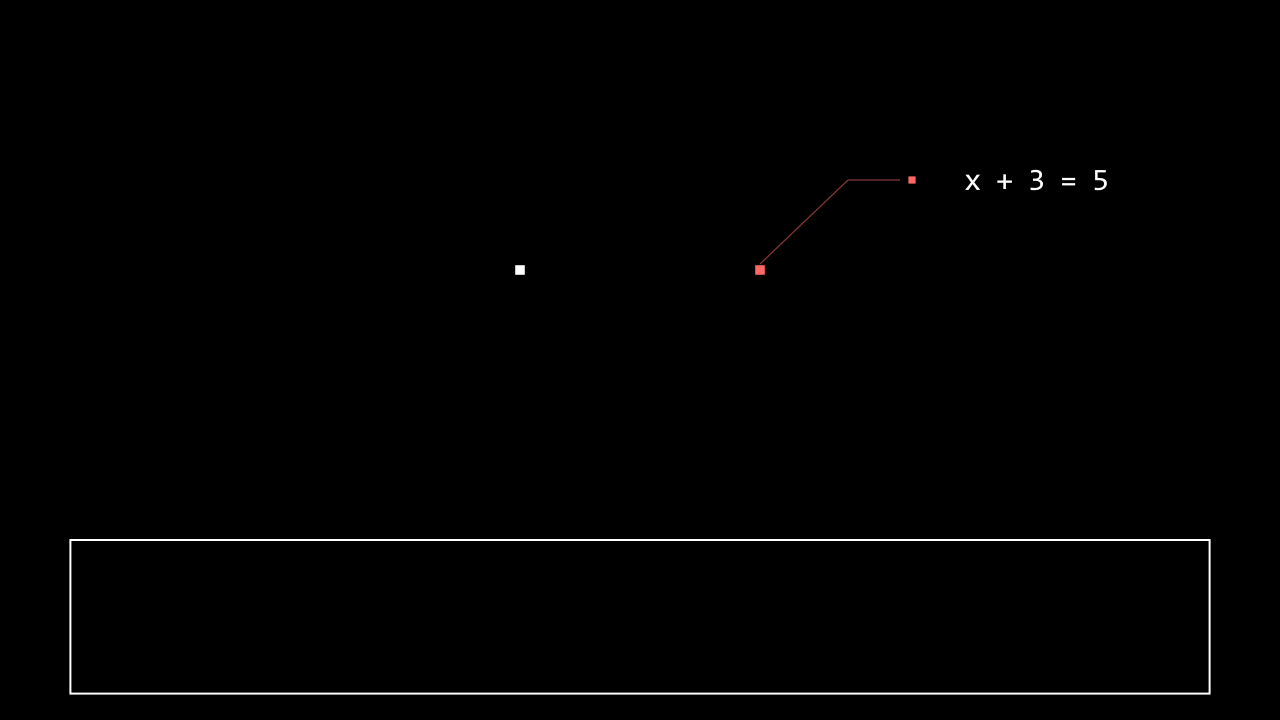
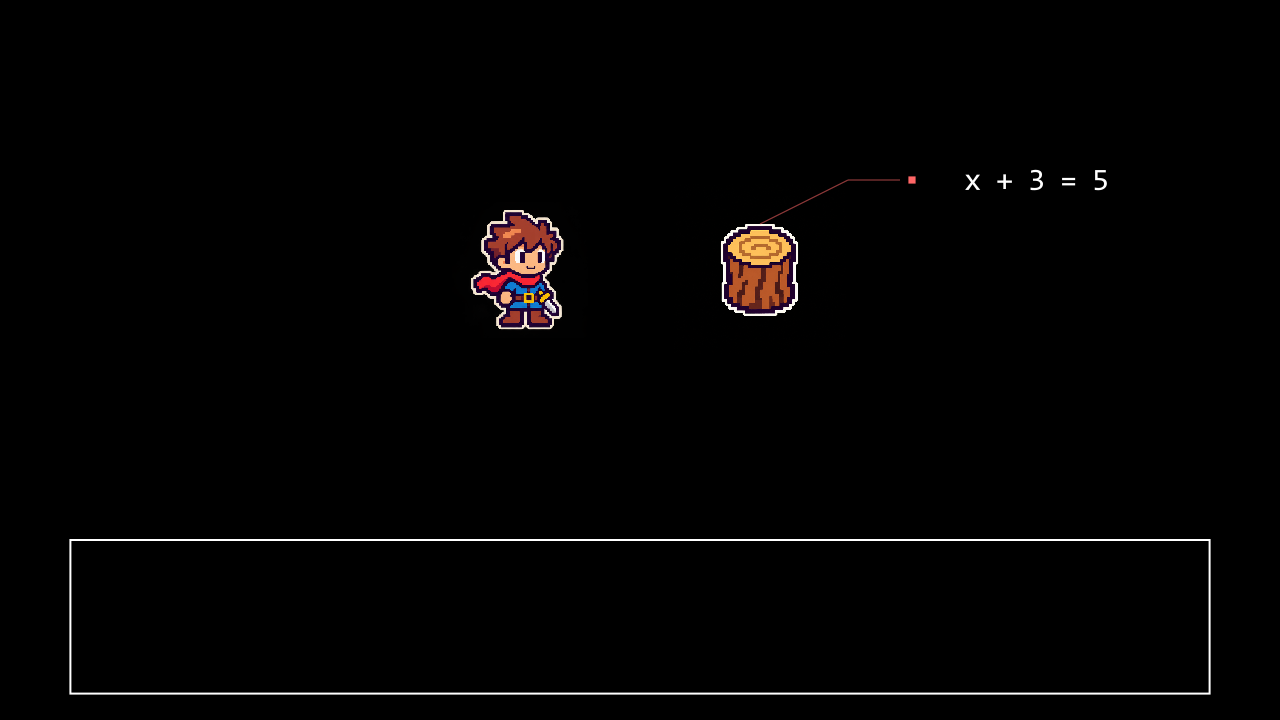
과정 적용 완료

Changed region(s): [[0.3438, 0.275, 0.4375, 0.4583], [0.5625, 0.3056, 0.625, 0.4583]]

diff --git a/visual_library/previews/training/index.html b/visual_library/previews/training/index.html
@@ -7,11 +7,11 @@
 @media(prefers-reduced-motion:reduce){#copy,#answer{transition:none}}
 </style>
 <main><button class="screen" id="stage" aria-label="다음 단계로 이동">
-<img src="initial/screen.png?v=4" alt="검은 배경, 왼쪽 주인공 점과 오른쪽 적 점, 빈 하단 대화창">
+<img src="initial/screen.png?v=5" alt="검은 배경, 왼쪽 정지 주인공 캐릭터와 오른쪽 도트 통나무, 빈 하단 대화창">
 <svg viewBox="0 0 1280 720" aria-hidden="true">
-<path d="M760 264 L848 180 H900" fill="none" stroke="#FF6666" stroke-width="1.5" opacity=".55"/>
+<path d="M760 224 L848 180 H900" fill="none" stroke="#FF6666" stroke-width="1.5" opacity=".55"/>
 <g id="original"><rect x="908" y="176.5" width="7" height="7" fill="#FF6666"/><text x="937" y="190">x + 3 = 5</text></g>
-<path id="playerLink" class="hidden" d="M520 264 L448 228 H420" fill="none" stroke="#FFFFFF" stroke-width="1.5" opacity=".35"/>
+<path id="playerLink" class="hidden" d="M485 224 L448 228 H420" fill="none" stroke="#FFFFFF" stroke-width="1.5" opacity=".35"/>
 <g id="copy" class="hidden" style="transform:translate(1035px,190px)">
 <g id="work"><text x="-22" y="0" text-anchor="end">x + 3</text><text x="0" y="0" text-anchor="middle">=</text><text x="22" y="0">5</text></g>
 <g id="operation" class="hidden" fill="#B6DDE5"><text x="-22" y="35" text-anchor="end" style="fill:#B6DDE5">x + 3 − 3</text><text x="0" y="35" text-anchor="middle" style="fill:#B6DDE5">=</text><text x="22" y="35" style="fill:#B6DDE5">5 − 3</text></g>

diff --git a/visual_library/previews/training/character_demo/index.html b/visual_library/previews/training/character_demo/index.html
@@ -1,0 +1,1 @@
+<!doctype html><html lang="ko"><meta charset="utf-8"><meta name="viewport" content="width=device-width,initial-scale=1"><title>주인공 동작 예시</title><style>body{margin:0;background:#111;color:#ccc;min-height:100vh;display:grid;place-content:center;font:14px sans-serif}main{width:min(100vw,1000px)}img{width:100%;display:block;image-rendering:pixelated}p{padding:0 12px}</style><main><img src="hero_animation_shortlegs.gif" alt="주인공이 걷고 칼을 휘두른 뒤 웃는 도트 애니메이션"><p>대기 → 이동 → 칼 휘두르기 → 웃는 표정 · 반복 재생</p></main></html>

diff --git a/visual_library/previews/training/initial_screen.py b/visual_library/previews/training/initial_screen.py
@@ -3,7 +3,7 @@ from pathlib import Path
 import sys
 ROOT=Path(__file__).resolve().parents[3]
 sys.path.insert(0,str(ROOT))
-from manim import Scene, Rectangle, Line, Text, VGroup, tempconfig
+from manim import Scene, Rectangle, Line, Text, VGroup, ImageMobject, RESAMPLING_ALGORITHMS, tempconfig
 from visual_library.manim import DialogueBackground
 
 class InitialScreen(Scene):
@@ -14,15 +14,19 @@ class InitialScreen(Scene):
         background.dialogue.stretch_to_fit_width(14.24)
         background.dialogue.stretch_to_fit_height(1.92)
         background.dialogue.move_to([0,-3.21,0])
-        # A single small square dot is the only character placeholder.
-        player=Rectangle(width=.12,height=.12,stroke_width=0,
-                         fill_color='#FFFFFF',fill_opacity=1).move_to([-1.5,1.125,0])
-        enemy=Rectangle(width=.12,height=.12,stroke_width=0,
-                        fill_color='#FF6666',fill_opacity=1).move_to([1.5,1.125,0])
+        assets=Path(__file__).parent/'assets'
+        player=ImageMobject(str(assets/'hero_idle.png'))
+        player.set_resampling_algorithm(RESAMPLING_ALGORITHMS['nearest'])
+        player.height=1.70
+        player.move_to([-1.5,1.125,0])
+        enemy=ImageMobject(str(assets/'training_log.png'))
+        enemy.set_resampling_algorithm(RESAMPLING_ALGORITHMS['nearest'])
+        enemy.height=2.15
+        enemy.move_to([1.5,1.125,0])
         self.add(background,player,enemy)
         if self.show_equation:
             self.add(
-                VGroup(Line([1.5,1.20,0],[2.6,2.25,0]),
+                VGroup(Line([1.5,1.70,0],[2.6,2.25,0]),
                        Line([2.6,2.25,0],[3.25,2.25,0]))
                 .set_stroke('#FF6666',width=1.5,opacity=.55),
                 Rectangle(width=.09,height=.09,stroke_width=0,

diff --git a/visual_library/previews/training/character_demo/build_preview.py b/visual_library/previews/training/character_demo/build_preview.py
@@ -1,0 +1,32 @@
+from pathlib import Path
+from PIL import Image, ImageDraw
+
+p = Path(__file__).resolve().parent
+walk = []
+for i in range(4):
+    original = Image.open(p / f'walk4_{i}.png').convert('RGB')
+    upper = original.crop((0, 0, 224, 153))
+    lower = original.crop((0, 153, 224, 224)).resize((224, 43), Image.Resampling.NEAREST)
+    cell = Image.new('RGB', (224, 224), 'black')
+    cell.paste(upper, (0, 10))
+    cell.paste(lower, (0, 163))
+    cell.save(p / f'walk4_shortlegs_{i}.png')
+    walk.append(cell)
+sheet = Image.open(p / 'hero_sheet.png').convert('RGBA')
+poses = [sheet.crop(((i % 3)*512, (i // 3)*512, (i % 3+1)*512, (i // 3+1)*512)).resize((224, 224), Image.Resampling.NEAREST) for i in range(6)]
+frames, durations = [], []
+def add(sprite, x, duration):
+    frame = Image.new('RGB', (800, 450), 'black')
+    if sprite.mode == 'RGBA':
+        frame.paste(sprite, (x, 70), sprite)
+    else:
+        frame.paste(sprite, (x, 70))
+    ImageDraw.Draw(frame).rectangle((44, 337, 756, 434), outline='white', width=2)
+    frames.append(frame)
+    durations.append(duration)
+add(poses[0], 210, 650)
+for i in range(16):
+    add(walk[i % 4], 210+(i+1)*7, 140)
+for pose, duration in [(3, 280), (4, 220), (0, 180), (5, 1600)]:
+    add(poses[pose], 322, duration)
+frames[0].save(p / 'hero_animation_shortlegs.gif', save_all=True, append_images=frames[1:], duration=durations, loop=0, disposal=2)

diff --git a/docs/longform_viewer_perspective.md b/docs/longform_viewer_perspective.md
@@ -1,0 +1,66 @@
+# 롱폼 개선 메모 — 처음 보는 시청자가 새로운 관점에 도달하도록
+
+작성일: 2026-11-19  
+용도: 롱폼 기획과 대본 검토 시 참고할 사용자 문제의식 및 개선 방향.
+
+## 출발점: 너무 많은 것을 설명하려 했다
+
+10분 이상 발화가 끊이지 않고 핵심 내용이 계속 등장하는 영상은 오랜 집중을 요구한다. 화면에서도 중요한 내용을 연이어 강조하면, 시청자가 내용을 받아들이고 생각을 정리할 여유가 부족할 수 있다.
+
+제작자는 대본 작성과 영상 제작 과정에서 같은 내용을 반복해서 접한다. 익숙해진 제작자에게 자연스러운 전개가 처음 보는 시청자에게도 자연스럽다고 판단하기 쉽다. 제작자가 한 단계라고 느끼는 설명 안에 시청자가 처음 넘어야 하는 여러 단계가 들어 있을 수 있다.
+
+사용자가 조회수가 좋은 다른 영상들을 보며 느낀 차이는, 간단하고 자연스럽게 받아들일 수 있는 이야기들이 이어진다는 점이다. 이는 현재의 관찰과 문제의식이며, 특정 영상의 성과 원인을 분석해 확정한 결론은 아니다.
+
+## 지키고 싶은 목표: 기존에 생각하지 못했던 시야
+
+영상의 목적은 시청자에게 완전히 새로운 시야, 기존에 생각하지 못했던 관점을 제시하는 것이다. 이 목표는 유지한다.
+
+다만 새로운 관점을 받아들이려면 낯선 지식을 배우는 동시에 기존에 익숙했던 생각도 바꿔야 한다. 관련 개념을 모두 설명하면 오히려 그 관점에 도달하는 길을 따라오기 어려울 수 있다.
+
+한 편의 목표를 다음 질문으로 정리한다.
+
+> 이 영상을 본 뒤, 시청자는 처음의 현상을 어떻게 다르게 보게 되는가?
+
+많은 내용을 전달했는지보다, 하나의 생각이 실제로 달라질 수 있도록 구성했는지를 본다.
+
+## 구성 방향: 시청자가 생각을 바꿀 수 있는 순서
+
+제작자가 알고 있는 지식의 순서와 처음 보는 사람이 이해할 수 있는 순서는 다를 수 있다. 설명 전에 궁금해지고, 용어를 배우기 전에 현상을 알아볼 수 있도록 구성한다.
+
+기본 흐름의 예:
+
+1. 익숙한 상황이나 구체적인 현상을 보여준다.
+2. 시청자가 자신의 생각으로 결과를 예상할 수 있게 한다.
+3. 실제 결과를 관찰한다.
+4. 예상과 다른 점, 기존 생각으로 설명하기 어려운 점에 머문다.
+5. 그 의문을 풀기 위해 필요한 개념을 도입한다.
+6. 처음의 현상을 새로운 관점으로 다시 바라본다.
+
+모든 영상에 이 순서를 기계적으로 적용할 필요는 없다. 핵심은 결론을 받아들일 준비가 생기는 과정을 생략하지 않는 것이다.
+
+## 내용과 호흡을 조절하는 기준
+
+- **중심 질문을 좁힌다.** 10분을 채우기보다 한 편에서 답할 질문을 먼저 정한다. 그 답에 필요하지 않은 사실은 흥미롭고 정확하더라도 덜어낸다.
+- **선행 개념의 연쇄를 줄인다.** 다음 설명을 이해하기 위해서만 배우는 개념이 계속 등장하면 다루는 범위를 다시 검토한다.
+- **새 개념 사이에 익숙해질 시간을 둔다.** 이미 배운 것으로 예시를 관찰하고, 결과를 예상하고, 같은 원리를 적용하는 구간을 마련한다. 이 구간에 새 용어를 계속 추가하지 않는다.
+- **생각할 일이 있는 여백을 둔다.** 질문 뒤 예상할 틈, 결과를 본 뒤 차이를 발견할 틈을 준다. 내레이션 없이 화면을 관찰하는 구간도 고려한다.
+- **강조를 모은다.** 모든 문장을 큰 글씨와 색상으로 강조하지 않는다. 현상과 설명이 쌓인 뒤 남겨야 할 핵심 문장에 강조를 집중한다.
+- **문장 수와 사고 전환을 함께 본다.** 문장이 짧고 쉬워도 매 문장마다 새로운 사실이 나오면 여전히 빽빽하다. 시청자가 새로 이해해야 하는 대상이 얼마나 자주 바뀌는지 살핀다.
+- **롱폼 전체의 호흡을 검토한다.** 독립적인 쇼츠를 연결하면 질문·반전·결론이 연속될 수 있다. 챕터를 이어 볼 때에도 하나의 사례나 질문을 자연스럽게 따라갈 수 있는지 확인한다.
+
+## 기존 제작 방식과의 관계
+
+‘씬 하나 = 주장 하나 = 독립적으로 교체 가능한 완성 영상’이라는 제작 단위는 유지한다. 하나의 주장을 이해시키는 씬 안에는 관찰·예상·설명·적용의 시간을 둘 수 있다. 독립 씬의 연속이 시청자에게 끊임없는 새 주장 학습으로 느껴지지 않게 한다.
+
+이 메모의 개선 방향은 기획과 대본 검토 단계에서 적용한다. 이미 확정된 대본이나 제공된 발화시간에 임의로 침묵을 추가하거나 영상 길이를 늘리지 않는다. 대본 변경이 필요하면 사용자 검토를 거쳐 확정하고, 그 대본의 실제 TTS 또는 제공된 발화시간으로 제작한다.
+
+## 대본 검토 질문
+
+- 처음 보는 사람이 이 장면을 이해하려면 무엇을 이미 알고 있어야 하는가?
+- 제작자의 익숙함 때문에 중간 생각 단계를 생략하지 않았는가?
+- 이 개념을 빼도 핵심 관점에 도달할 수 있는가?
+- 시청자가 직접 예상하거나 관찰할 기회가 있는가?
+- 새 내용을 추가하지 않고, 이미 나온 내용을 이해하는 구간이 있는가?
+- 결론에서 처음의 현상이 어떻게 다르게 보이는지 드러나는가?
+
+기존 대본에 적용할 때는 한 구간을 골라 ‘새로 배울 내용 / 이해를 돕는 익숙한 이야기 / 관찰하고 생각할 여백’으로 나눠본다. 새로 배울 내용만 연속되는 부분부터 범위와 전개를 조정한다.

diff --git a/visual_library/previews/training/character_demo/README.md b/visual_library/previews/training/character_demo/README.md
@@ -1,0 +1,63 @@
+# 주인공 동작 예시
+
+승인한 첫 번째 캐릭터의 외형을 참고해 내장 imagegen으로 3×2 동작 시트를 생성했다.
+`hero_sheet.png`: 대기, 걷기 2종, 검 준비, 내려침, 웃는 표정.
+`hero_animation.gif`와 `index.html`: 프레임 교체 및 위치 이동으로 동작을 확인하는 예시.
+기존 수식 시안에는 적용하지 않았다. 걷기 프레임의 차이가 작고 프레임 사이
+외형 차이가 있어 최종 스프라이트는 추가 정리가 필요하다. 본편 시간표가 아니다.
+
+생성 프롬프트 요지: 첫 주인공의 갈색 머리·빨간 스카프·파란 옷·금색 버클·갈색 부츠·
+보라 윤곽·아이보리 외곽선을 유지한 동일 캐릭터 6포즈, 투명 배경의 3×2 시트.
+
+## 걷기 수정
+
+걷기 B의 발 위치·무릎 굽힘을 내장 imagegen으로 수정했다. 기존 다른 포즈는 유지한다.
+A → 발 모으기 → B → 발 모으기로 재생해 보폭 변화를 드러낸다.
+현재 GIF는 `hero_animation_walk_v2.gif`, 수정 시트는 `hero_sheet_walk_v2.png`다.
+아직 최종적인 좌우 다리 교대·접지 검증을 마친 게임 스프라이트는 아니다.
+
+## 걷기 v3 (현재)
+
+이전 걷기 v2는 폐기된 시안이다. 현재 `hero_animation_walk_v3.gif`를 재생한다.
+발 모으기 프레임 없이 걷기 A/B만 교대한다. B의 화면 왼쪽 부츠는 아래로
+뻗고 오른쪽 부츠는 위로 접혀 A와 반대가 된다. 칼은 같은 화면 왼쪽 손에
+유지하고 자유로운 오른쪽 팔은 내려 뒤로 둔다. 나머지 포즈는 원본을 사용한다.
+내장 imagegen으로 B만 수정했으며 원본과 수정 시트를 모두 보존한다.
+프롬프트 핵심: top-right B only; screen-left boot lower/forward, screen-right boot
+higher/tucked, sword in same screen-left hand, free screen-right arm back/down;
+keep all other cells unchanged, transparent pixel art.
+`build_preview.py`로 프레임 선택과 GIF 조립을 재현한다.
+
+## 4프레임 걷기 (현재)
+
+현재 재생 파일은 `hero_animation_walk4.gif`다. 이전 v2/v3를 대체한다.
+`hero_walk_four_frames.png`에서 접지 A → 통과 A → 접지 B → 통과 B를
+분리한 `walk4_0.png`~`walk4_3.png`를 교대한다. 차렷/발 모으기 자세는 없다.
+접지 A는 검 손이 전방, 접지 B는 검 손이 후방으로 움직이고 통과 자세의
+들린 무릎도 좌우 교대한다. 검은 팔의 움직임에 따라 위치와 각도가 바뀐다.
+내장 imagegen으로 참조 캐릭터의 4프레임 걷기 시트를 생성했다.
+프롬프트 핵심: 동일 손의 검, 반대 팔·다리 교대, 접지/통과 4종, 검은 배경,
+동일 크기와 기준선. 최종 영상용 픽셀 접지·해부학 검수는 별도로 필요하다.
+
+### 짧은 체형 조정 (현재)
+
+걷기 프레임의 너비를 유지하고 세로 길이를 약 15% 줄여 대기 자세와 가까운
+짧고 통통한 비율로 조정했다. 현재 재생 파일은 `hero_animation_walk4_short.gif`.
+걷기 4자세와 팔·다리 교대는 유지한다.
+
+### 하체만 단축 (현재)
+
+전체 세로 축소는 취소했다. 원본 걷기 프레임의 머리·상체 픽셀 크기를 유지하고
+허리 아래(y=153 이후) 영역만 71px에서 43px로 단축했다.
+현재 파일은 `hero_animation_shortlegs.gif`, 분리 프레임은 `walk4_shortlegs_*.png`.
+
+
+## 현재 주인공 애니메이션 기준 (2026-11-19 저장)
+
+- 기준 미리보기: `hero_animation_shortlegs.gif`.
+- 머리와 상체의 원래 비율을 유지하고 **하체 길이만 줄인다**. 전체 세로 축소 버전은 사용하지 않는다.
+- 걷기는 접지 A → 통과 A → 접지 B → 통과 B의 네 자세다. 차렷식 발 모으기를 끼우지 않는다.
+- 팔과 반대쪽 다리가 교대하고, 칼은 같은 손에 든 채 팔을 따라 움직인다.
+- 현재 적용 수치: 224×224 원본에서 y=153 위는 유지, 아래 71px를 43px로 단축. 프레임 배치 오프셋은 y=10.
+- 시안은 대기 → 이동 → 칼 휘두르기 → 웃는 표정 순서로 반복한다. 본편 수식 시안에는 아직 캐릭터를 교체 적용하지 않았다.
+- 원본·이전 시안은 보존한다. `build_preview.py`는 현재 하체 단축 버전을 재생성하도록 갱신했다.

diff --git a/visual_library/previews/training/README.md b/visual_library/previews/training/README.md
@@ -73,3 +73,27 @@ x + 3 − 3 = 5 − 3
 최종 게임용 픽셀 격자나 24×24/32×32 규격이 검증된 에셋으로 취급하지 않는다.
 
 ![캐릭터 스타일 예시](references/character_style_examples.png)
+
+
+## 현재 주인공 애니메이션 기준 (2026-11-19 저장)
+
+- 기준 미리보기: `hero_animation_shortlegs.gif`.
+- 머리와 상체의 원래 비율을 유지하고 **하체 길이만 줄인다**. 전체 세로 축소 버전은 사용하지 않는다.
+- 걷기는 접지 A → 통과 A → 접지 B → 통과 B의 네 자세다. 차렷식 발 모으기를 끼우지 않는다.
+- 팔과 반대쪽 다리가 교대하고, 칼은 같은 손에 든 채 팔을 따라 움직인다.
+- 현재 적용 수치: 224×224 원본에서 y=153 위는 유지, 아래 71px를 43px로 단축. 프레임 배치 오프셋은 y=10.
+- 시안은 대기 → 이동 → 칼 휘두르기 → 웃는 표정 순서로 반복한다. 본편 수식 시안에는 아직 캐릭터를 교체 적용하지 않았다.
+- 원본·이전 시안은 보존한다. `build_preview.py`는 현재 하체 단축 버전을 재생성하도록 갱신했다.
+
+[애니메이션 미리보기](character_demo/index.html) · [세부 기록](character_demo/README.md)
+
+## 정지 캐릭터와 통나무 적용 (현재)
+
+기존 좌우 점을 실제 정지 이미지로 교체했다. 주인공 중심 (−1.5,1.125),
+통나무 중심 (1.5,1.125)을 유지한다. `assets/hero_idle.png`는 현재 주인공의
+짧은 대기 자세, `assets/training_log.png`는 같은 보라 윤곽·아이보리 외곽선의
+도트 통나무다. 통나무는 내장 imagegen으로 생성했다.
+생성 프롬프트 요지: 검은 배경, 짧고 굵은 세로 통나무, 나이테와 껍질,
+굵은 보라 윤곽과 아이보리 외곽선, 제한된 명암, 얼굴·팔다리 없음.
+캐릭터와 통나무는 움직이지 않는다. 기존 수식 복사·풀이·제출 시안은 유지한다.
+수식 연결선 시작점만 객체의 위쪽 가장자리 부근으로 조정했다.

diff --git a/longforms/equation_rpg_quintic/plan.md b/longforms/equation_rpg_quintic/plan.md
@@ -227,3 +227,10 @@ player.set_resampling_algorithm(RESAMPLING_ALGORITHMS["nearest"])
 최종 게임용 픽셀 격자나 24×24/32×32 규격이 검증된 에셋으로 취급하지 않는다.
 
 ![캐릭터 스타일 예시](../../visual_library/previews/training/references/character_style_examples.png)
+
+## 주인공 동작 비율 기준 (2026-11-19)
+
+머리·상체는 유지하고 하체만 짧게 만든 4프레임 걷기 시안을 기준으로 저장했다.
+팔과 반대 다리의 교대, 같은 손의 검 이동을 유지하며 차렷식 발 모으기는 넣지 않는다.
+현재 자료: `visual_library/previews/training/character_demo/hero_animation_shortlegs.gif`.
+현재 본편 화면의 점 캐릭터를 교체한 것은 아니다.

diff --git a/plans/equation_rpg_quintic.md b/plans/equation_rpg_quintic.md
@@ -207,3 +207,10 @@ player.set_resampling_algorithm(RESAMPLING_ALGORITHMS["nearest"])
 최종 게임용 픽셀 격자나 24×24/32×32 규격이 검증된 에셋으로 취급하지 않는다.
 
 ![캐릭터 스타일 예시](../visual_library/previews/training/references/character_style_examples.png)
+
+## 주인공 동작 비율 기준 (2026-11-19)
+
+머리·상체는 유지하고 하체만 짧게 만든 4프레임 걷기 시안을 기준으로 저장했다.
+팔과 반대 다리의 교대, 같은 손의 검 이동을 유지하며 차렷식 발 모으기는 넣지 않는다.
+현재 자료: `visual_library/previews/training/character_demo/hero_animation_shortlegs.gif`.
+현재 본편 화면의 점 캐릭터를 교체한 것은 아니다.
